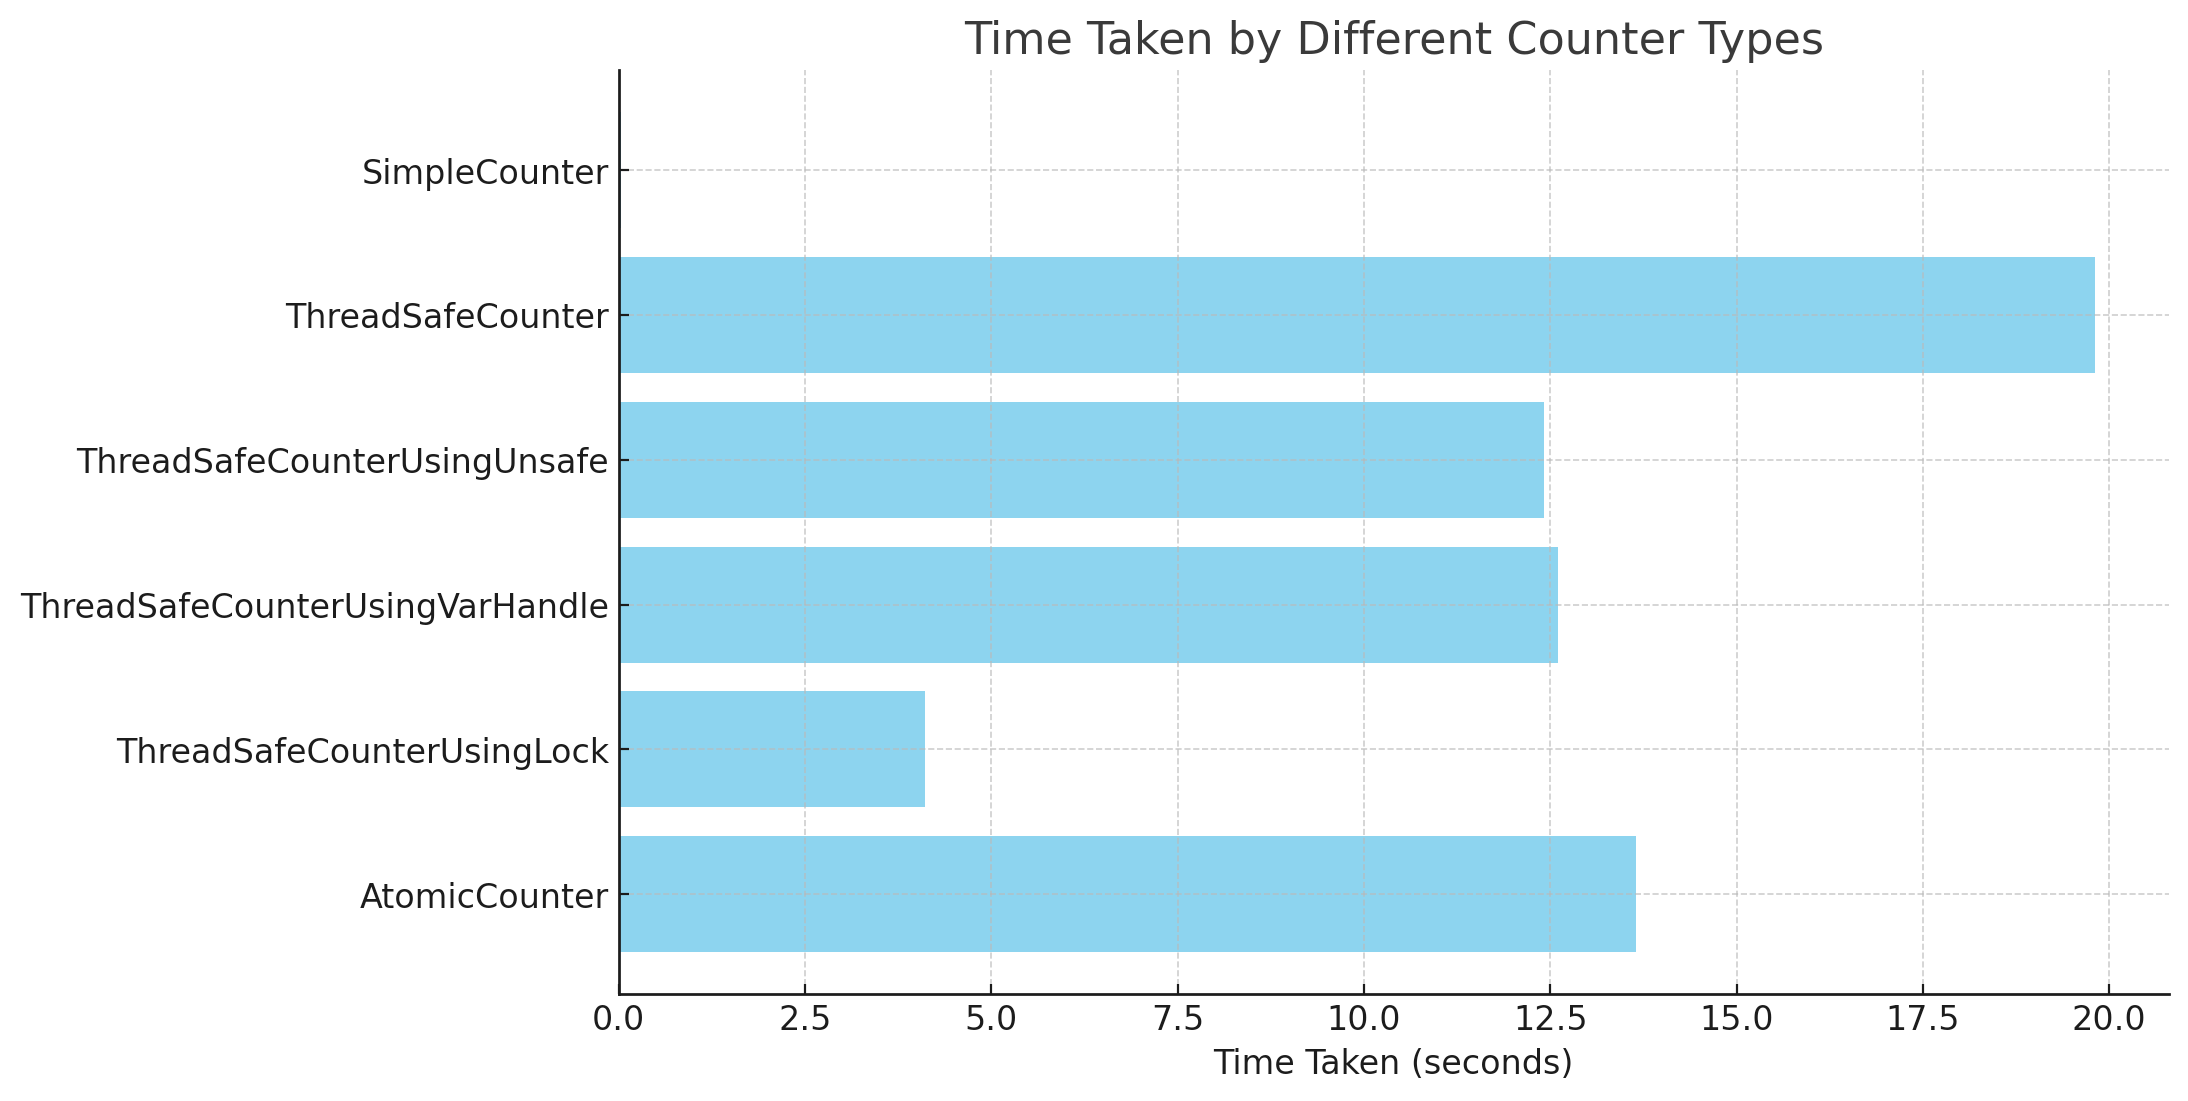
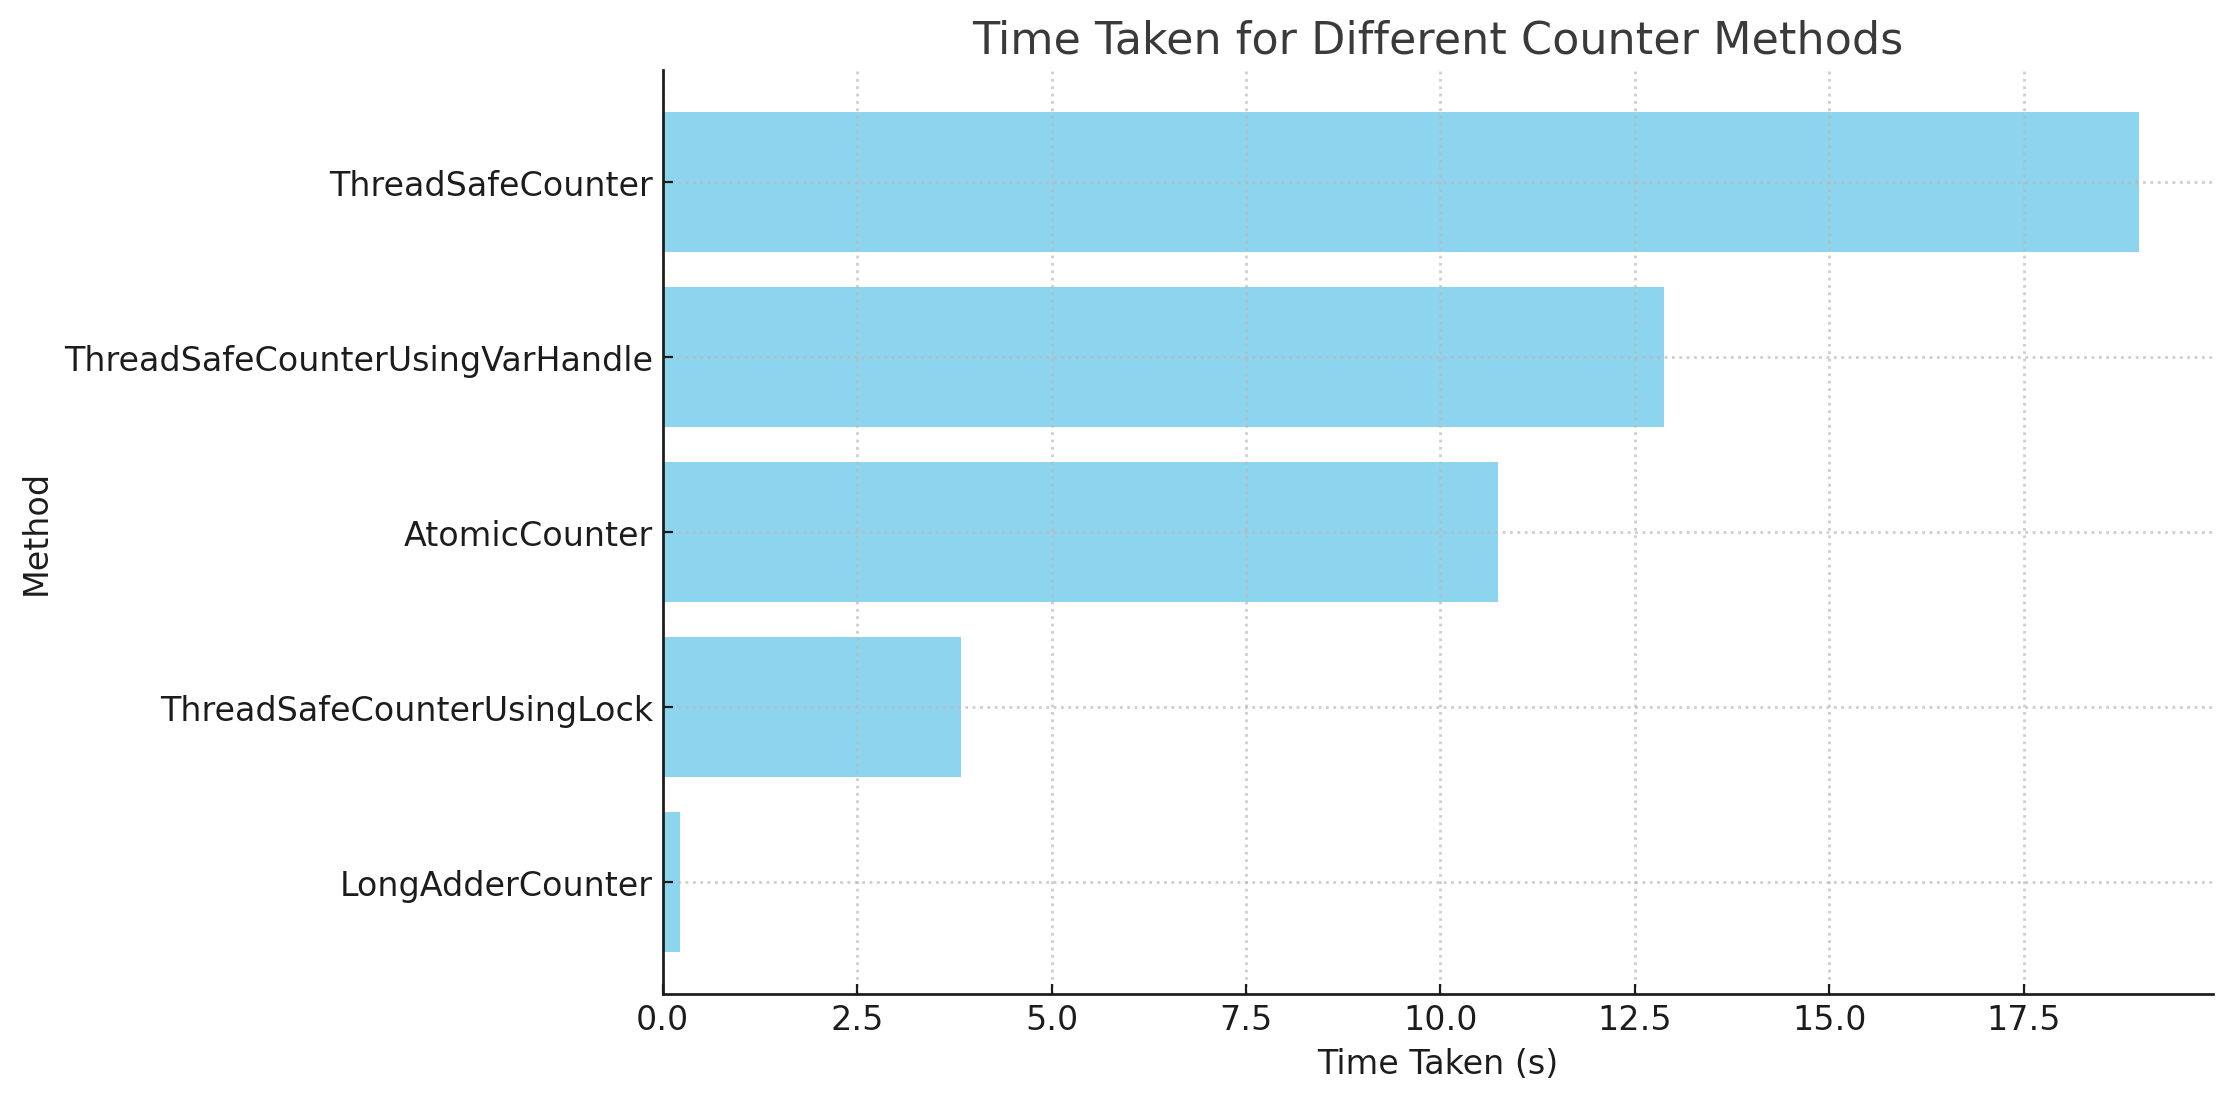
Rename Main and refactor method names for clarity
The main class has been renamed from Main to JMHBenchmarkRunner to better illustrate its purpose. Additionally, method names in CounterBenchmark have been enhanced for greater clarity. The README has also been updated with more comprehensive performance analysis of the counter mechanisms in the test. These changes aim to improve code understandability and readability.

diff --git a/src/main/java/ca/bazlur/CounterBenchmark.java b/src/main/java/ca/bazlur/CounterBenchmark.java
@@ -92,12 +92,12 @@ public class CounterBenchmark {
   }
 
   @Benchmark
-  public void incrementWithAtomicInteger() {
+  public void incrementAtomicInteger() {
     incrementOneMillionTimes(atomicCounter);
   }
 
   @Benchmark
-  public void getWithThreadAtomicInteger() {
+  public void getWithAtomicInteger() {
     getOneMillionTimes(atomicCounter);
   }
 
@@ -107,7 +107,7 @@ public class CounterBenchmark {
   }
 
   @Benchmark
-  public void getWithThreadLongAdder() {
+  public void getWithLongAdder() {
     getOneMillionTimes(longAdderCounter);
   }
 }

diff --git a/src/main/java/ca/bazlur/JMHBenchmarkRunner.java b/src/main/java/ca/bazlur/JMHBenchmarkRunner.java
@@ -5,7 +5,7 @@ import org.openjdk.jmh.runner.RunnerException;
 import org.openjdk.jmh.runner.options.Options;
 import org.openjdk.jmh.runner.options.OptionsBuilder;
 
-public class Main {
+public class JMHBenchmarkRunner {
     public static void main(String[] args) throws RunnerException {
         Options opt = new OptionsBuilder()
                 .include(CounterBenchmark.class.getSimpleName())

diff --git a/README.md b/README.md
@@ -27,52 +27,70 @@ Clone the repository and open it in IntelliJ IDEA. The main class `CounterTest` 
 
 The counter implementations show different results when run on `CounterTest`. Here are the results:
 
-### SimpleCounter
+This set of results presents the time taken to increment a counter to a final value of 200,000,000 using different counter mechanisms. The expected counter value was also 200,000,000 in all cases, which means all methods were able to accurately increment the counter to the desired value.
 
-Final Counter Value: 196699615  
-Expected Counter Value: 200000000  
-Time Taken: 0.028589333 seconds
+Here's a summary of the time taken by each method:
 
-### ThreadSafeCounter
+1. **AtomicCounter**: This method took 10.743532042 seconds to reach the final counter value. This is relatively faster compared to some methods but slower than the LongAdderCounter and ThreadSafeCounterUsingLock methods.
 
-Final Counter Value: 200000000  
-Expected Counter Value: 200000000  
-Time Taken: 19.807858875 seconds
+2. **LongAdderCounter**: This method was the fastest, taking only 0.219587042 seconds to reach the final counter value. This aligns with the results from the earlier benchmark, where LongAdder was the fastest method for incrementing the counter.
 
-### ThreadSafeCounterUsingUnsafe
+3. **ThreadSafeCounter**: This method took the longest time, with 18.984246167 seconds needed to reach the final counter value.
 
-Final Counter Value: 200000000  
-Expected Counter Value: 200000000  
-Time Taken: 12.420408125 seconds
+4. **ThreadSafeCounterUsingLock**: This method took 3.840325584 seconds, making it the second-fastest method after LongAdderCounter.
 
-### ThreadSafeCounterUsingVarHandle
+5. **ThreadSafeCounterUsingVarHandle**: This method took 12.87625075 seconds, which is relatively slower compared to most of the other methods.
 
-Final Counter Value: 200000000  
-Expected Counter Value: 200000000  
-Time Taken: 12.605674958 seconds
-
-### ThreadSafeCounterUsingLock
-
-Final Counter Value: 200000000  
-Expected Counter Value: 200000000  
-Time Taken: 4.110033459 seconds
-
-### AtomicCounter
-
-Final Counter Value: 200000000  
-Expected Counter Value: 200000000  
-Time Taken: 13.654771916 seconds
+In conclusion, the LongAdderCounter was the most efficient method in terms of time performance for this task. However, as before, keep in mind that the most suitable method depends on the specific requirements and constraints of your application. It's also worth noting that all methods accurately reached the expected count, demonstrating that they are all correct in terms of their basic functionality.
 
 ![img.png](img.png)
 
-
 Please note that these results may vary based on the system and the current CPU workload.
-
-
 
 ## Experiment
 
 JMH (Java Microbenchmark Harness) is used in creating benchmarks. Multiple threads try to increment each counter implementation concurrently. This provides a realistic gauge on the performance of each implementation under stress.
+
+## Run complete. Total time: 00:19:21
+
+**REMEMBER**: The numbers below are just data. To gain reusable insights, you need to follow up on
+why the numbers are the way they are. Use profilers (see -prof, -lprof), design factorial
+experiments, perform baseline and negative tests that provide experimental control, make sure
+the benchmarking environment is safe on JVM/OS/HW level, ask for reviews from the domain experts.
+Do not assume the numbers tell you what you want them to tell.
+
+**NOTE**: Current JVM experimentally supports Compiler Blackholes, and they are in use. Please exercise
+extra caution when trusting the results, look into the generated code to check the benchmark still
+works, and factor in a small probability of new VM bugs. Additionally, while comparisons between
+different JVMs are already problematic, the performance difference caused by different Blackhole
+modes can be very significant. Please make sure you use the consistent Blackhole mode for comparisons.
+
+```
+Benchmark                                                      Mode  Cnt           Score           Error  Units
+CounterBenchmark.getWithAtomicInteger                          avgt   15     1181169.398 ±     80658.422  ns/op
+CounterBenchmark.getWithLongAdder                              avgt   15     4319934.284 ±    243032.938  ns/op
+CounterBenchmark.getWithThreadSafeCounter                      avgt   15  1197738852.701 ±  43607731.777  ns/op
+CounterBenchmark.getWithThreadSafeCounterUsingLock             avgt   15   882019639.176 ±  19887398.014  ns/op
+CounterBenchmark.getWithThreadSafeCounterUsingVarHandle        avgt   15      244977.155 ±      5032.613  ns/op
+CounterBenchmark.incrementAtomicInteger                        avgt   15  3093682730.077 ± 319165683.588  ns/op
+CounterBenchmark.incrementWithLongAdder                        avgt   15    52142760.859 ±  18214042.032  ns/op
+CounterBenchmark.incrementWithThreadSafeCounter                avgt   15  1197936993.549 ±  46691109.878  ns/op
+CounterBenchmark.incrementWithThreadSafeCounterUsingLock       avgt   15  1080082160.941 ± 120414375.182  ns/op
+CounterBenchmark.incrementWithThreadSafeCounterUsingVarHandle  avgt   15  3148086776.800 ±  69750181.388  ns/op
+```
+
+![benchmark.png](benchmark.png)
+
+Here are the two bar charts that visualize the benchmark results for the "get" operations and the "increment" operations, respectively.
+
+In both charts, the methods are displayed on the y-axis and the time taken (in nanoseconds per operation, shown in log scale due to the wide range of values) is on the x-axis. The red lines represent the standard deviation for each method, indicating the variability of the results.
+
+From these charts, you can see the following:
+
+- **For the "get" operations:** The `getWithThreadSafeCounterUsingVarHandle` method performs the best, taking the least time per operation. The `getWithThreadSafeCounter` and `getWithThreadSafeCounterUsingLock` methods are the slowest, taking the most time per operation.
+
+- **For the "increment" operations:** The `incrementWithLongAdder` method is by far the fastest, while `incrementAtomicInteger` and `incrementWithThreadSafeCounterUsingVarHandle` are the slowest.
+
 
 ## License
 
